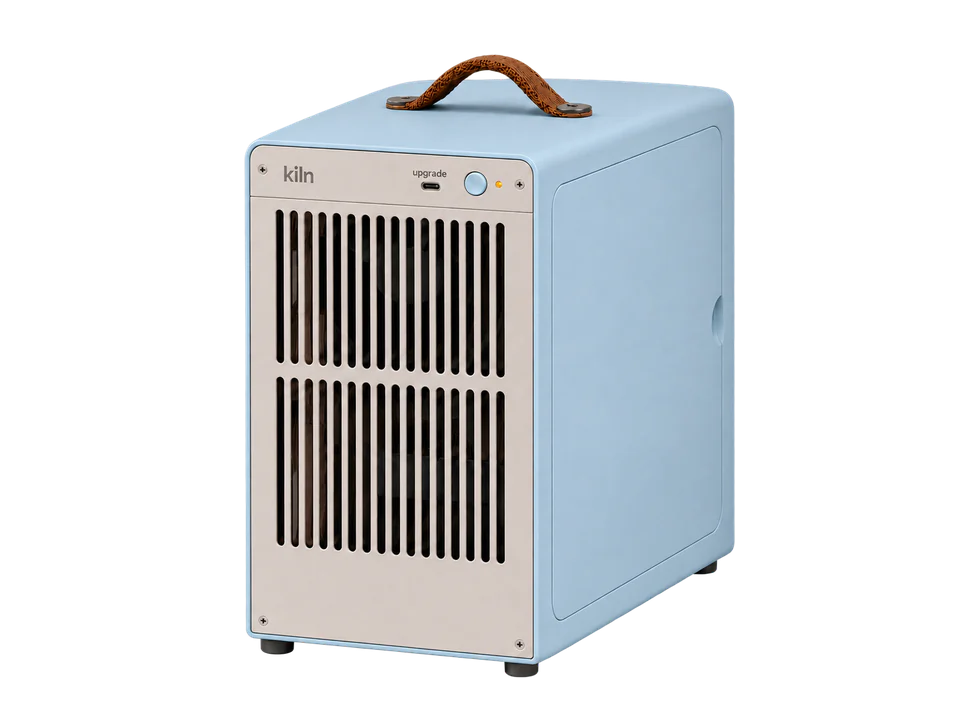
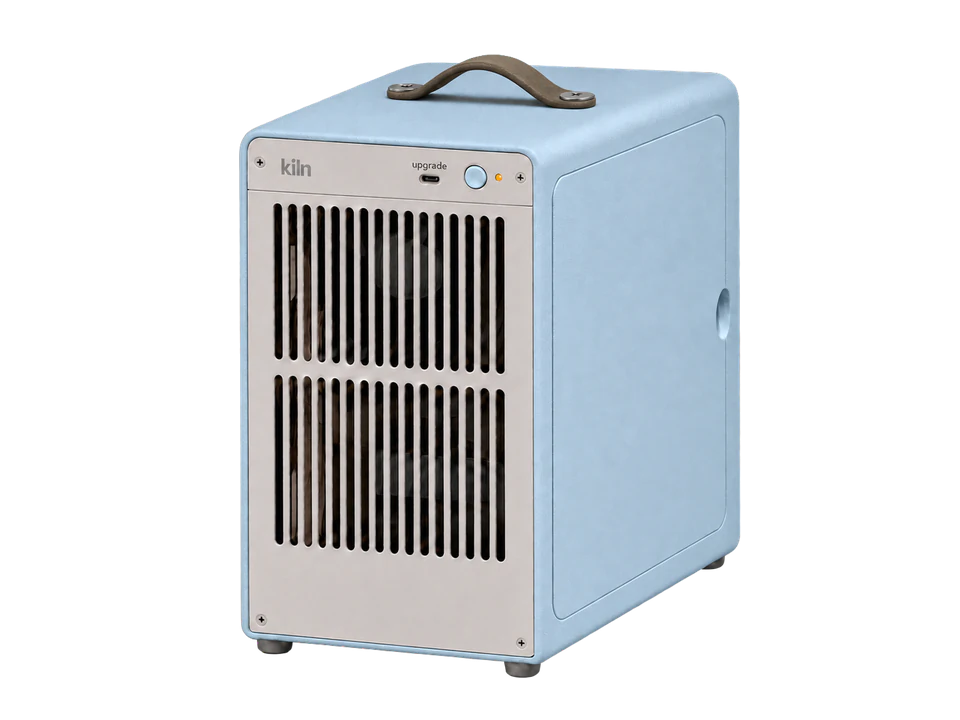
feat: open Kiln One on the leather and casing detail

diff --git a/src/styles/hardware-reveal.css b/src/styles/hardware-reveal.css
@@ -6,6 +6,14 @@
 }
 body:has(.intro-runway) .site-header { background: #fff; }
 .intro-runway .hero-device picture { display: block; }
+.hero-device .hero-material-detail {
+  /* Registered crop in the 4:3 full-product render. */
+  position: absolute; left: 37.5%; top: 5%; width: 40%; height: 40%;
+  pointer-events: none; opacity: 0;
+}
+@media (prefers-reduced-motion: reduce) {
+  .hero-device .hero-material-detail { display: none; }
+}
 #hardware .finish-runway { margin-inline: calc(-1 * var(--pad)); }
 /* The camera is driven by document scroll. The controls work at every viewport size. */
 .finish-runway {

diff --git a/docs/CONTENT-SOURCES.md b/docs/CONTENT-SOURCES.md
@@ -1,8 +1,10 @@
 ## Kiln One finishes and scroll zoom, 26 November 2026
 
-The founder selected the pebble-grey Kiln One and three colours for the lander: baby pink, eucalyptus and powder blue. Each folded-steel concept has a matching power button, woven grip, right-side access panel and a standard USB-C port with the lowercase label “upgrade” directly above it. The four original studio renders are visual concepts. The website isolates each device on white, removing the photographed worktop and backdrop. The 3840 × 2880 WebPs are upscaled from the 1448 × 1086 source artwork. The opening uses the larger image when motion is enabled. The 960 × 720 versions serve the smaller views.
+The founder selected the pebble-grey Kiln One and three colours for the lander: baby pink, eucalyptus and powder blue. Each finish has a matching power button, a right-side access panel and a standard USB-C port with the lowercase label “upgrade” directly above it. Earlier studio renders explored folded steel and a woven grip. The shell has a fine, stone-like grain in lightly stippled matte plastic. The belt-shaped handle is supple, muted brown leather with subtle tonal variation. Its matte surface curves softly between the mounts, with neatly finished edges. These are visual material studies.
 
-The opening scroll pulls back from the device close-up to reveal “Keep the work close.” An outline draws clockwise around “work”, as on the original lander. The hardware gallery gives direct access to all four finishes and pulls back from a 4× detail to each full device. The later interlude retains “A place for your ideas.” The Kiln One configurations, prices, KilnOS narrative and enquiry destinations carry forward from the existing site. Atelier and Atelier Rack are retired from the active catalogue. Their former product URLs direct visitors to the hardware page.
+Each device appears on white. All four finishes use the same 1448 × 1086 pebble-grey full-device render. The three colour variants match the earlier pink, green and blue finish references, preserving the handle across the set. The larger WebPs are upscaled to 3840 × 2880. The 960 × 720 versions serve smaller views.
+
+The opening starts at 9× where the leather handle meets the stippled shoulder of the pebble-grey machine. A separate 1448 × 1086 detail render covers the same region as a crop spanning 40% of the full frame on each axis. As the visitor scrolls, the view pulls back and the detail fades into the full-device render to reveal “Keep the work close.” An outline draws clockwise around “work”, as on the original lander. The hardware gallery gives direct access to all four finishes and pulls back from a 4× detail to each full device. The later interlude retains “A place for your ideas.” The Kiln One configurations, prices, KilnOS narrative and enquiry destinations carry forward from the existing site. Atelier and Atelier Rack are retired from the active catalogue. Their former product URLs direct visitors to the hardware page.
 
 ## NVIDIA Inception membership, 23 November 2026
 
